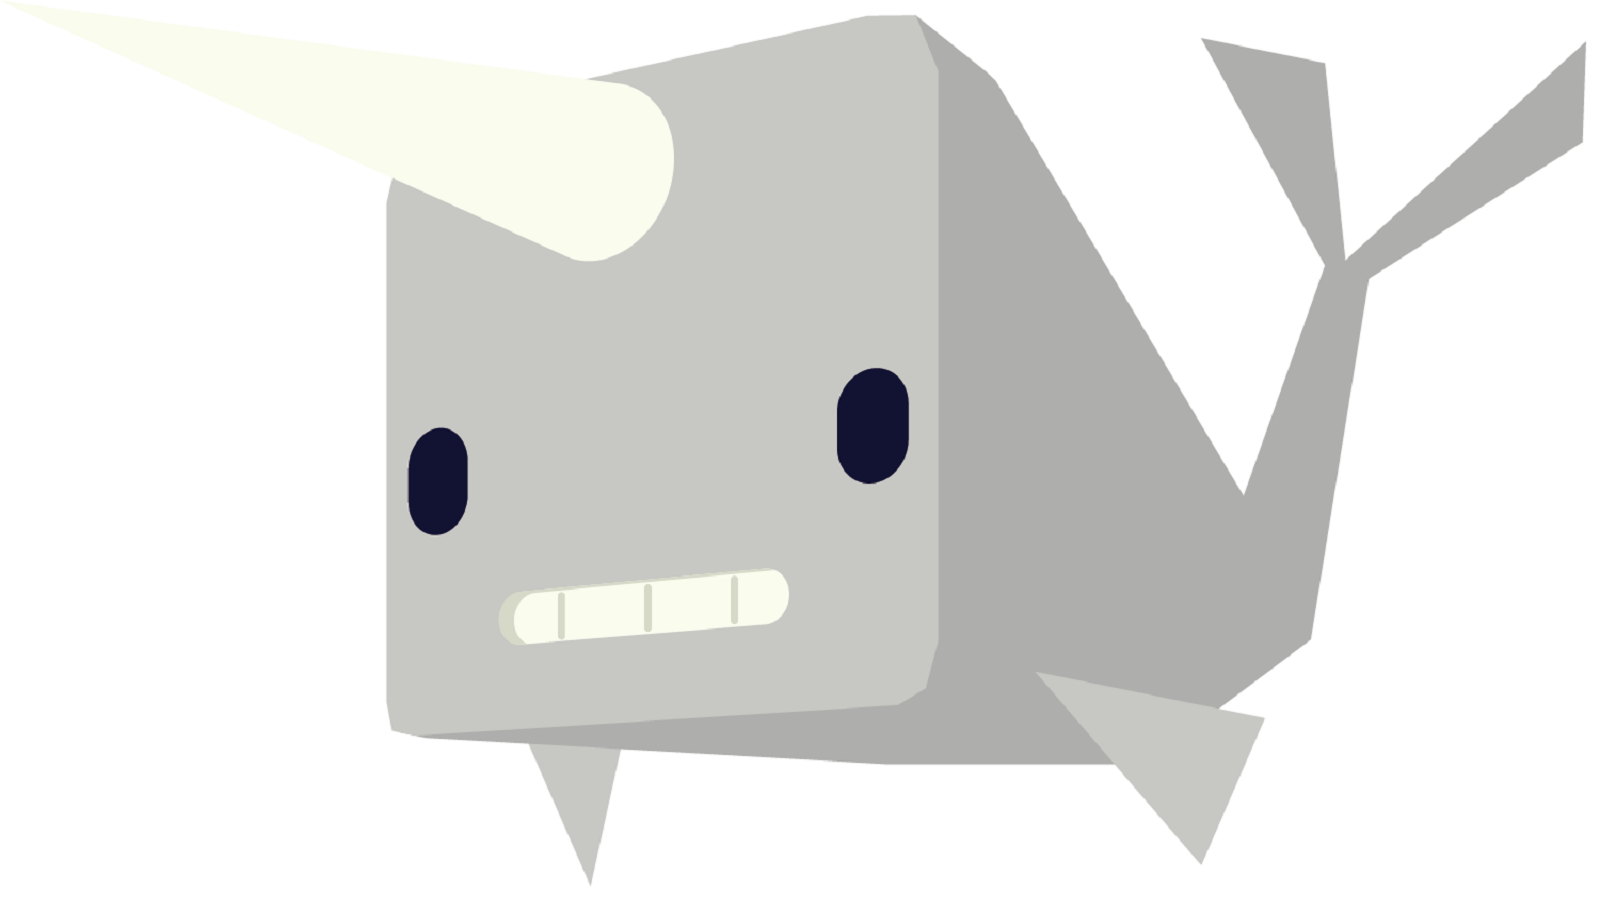
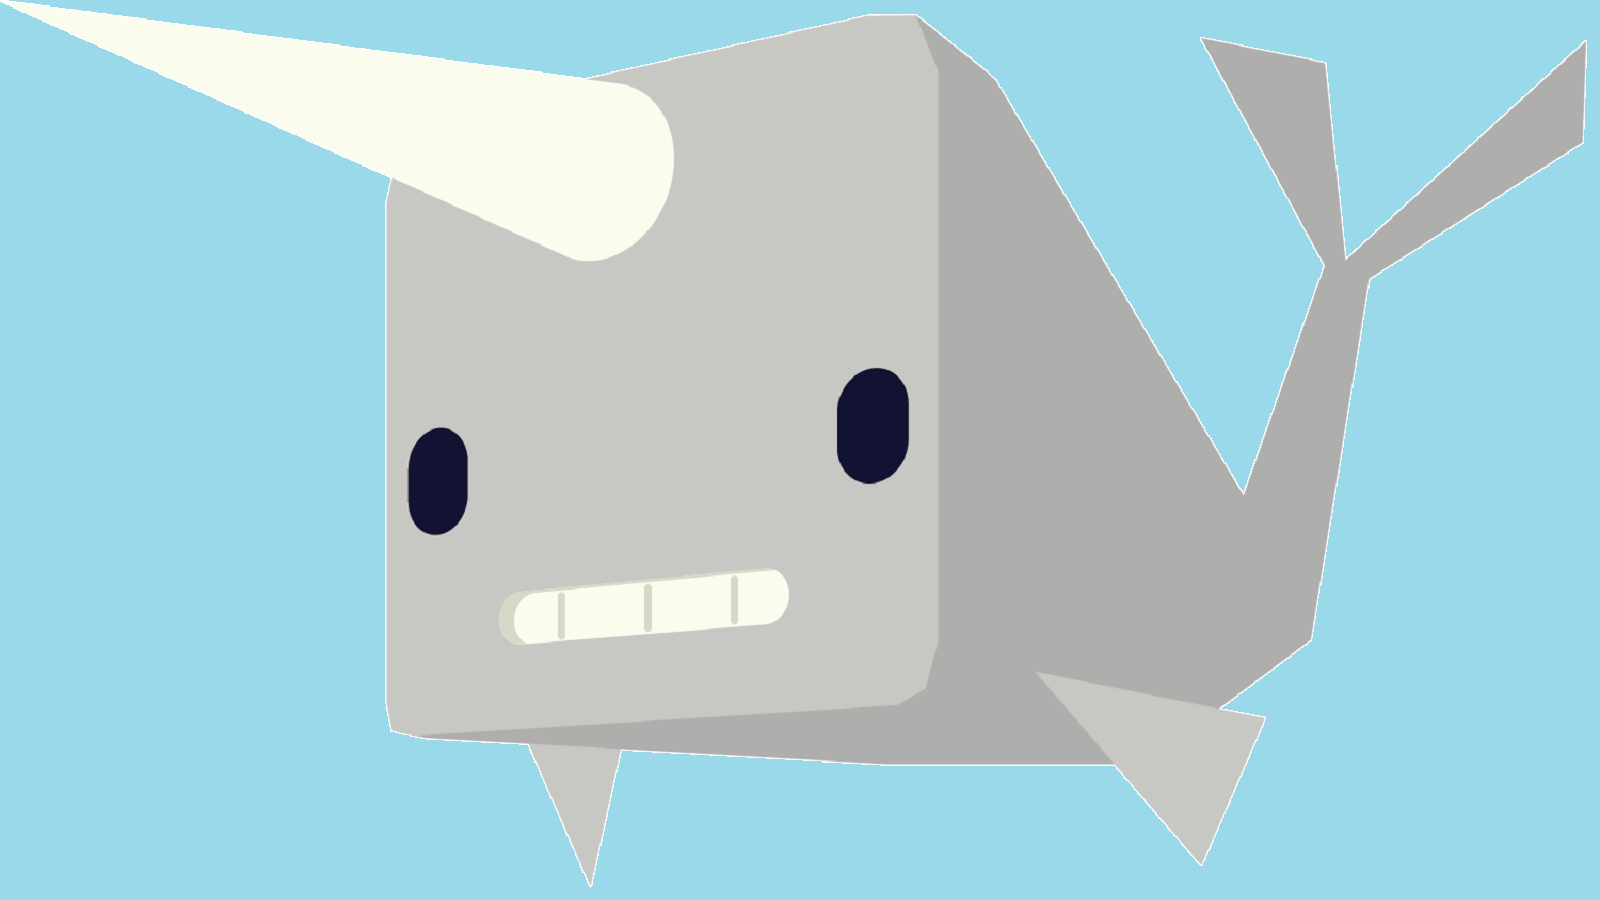
Some other Art

diff --git a/src/main/board.java b/src/main/board.java
@@ -43,7 +43,7 @@ public class board
 		// Initial parameters for Board
 		frame = new JFrame("Narwhal Dashboard");
 		try {
-            frame.setContentPane(new ImagePanel(ImageIO.read(new File("src/art/narwhalBackground.jpg"))));
+            frame.setContentPane(new ImagePanel(ImageIO.read(new File("src/art/narwhalBackground50Opacity.jpg"))));
         } catch (IOException e) {
             e.printStackTrace();
         }
